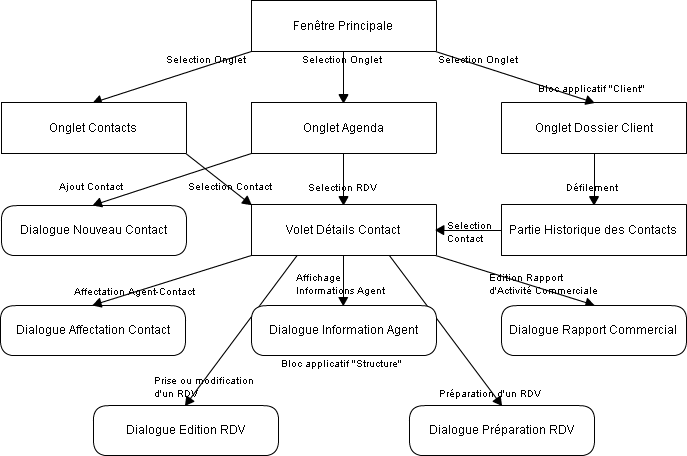
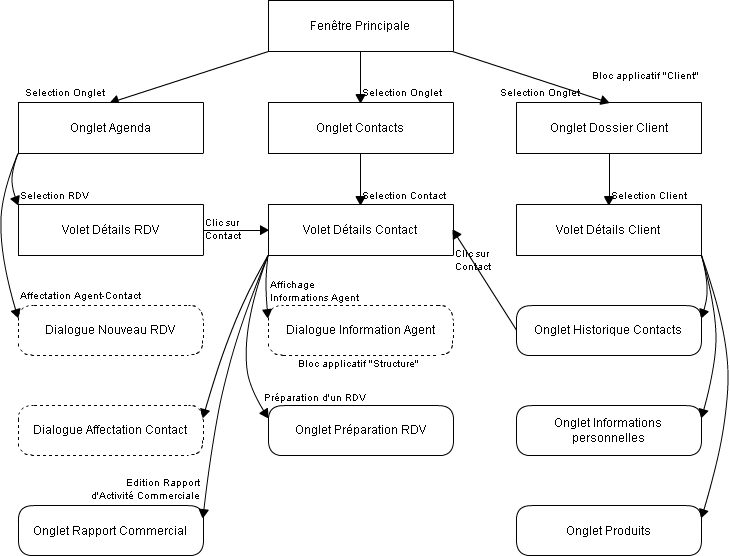
Work

diff --git a/livrables/compte-rendu/conception-detaillee.tex b/livrables/compte-rendu/conception-detaillee.tex
@@ -26,8 +26,7 @@ principaux :
 \item \textbf{L'onglet Clients} : Cet onglet permet d'accéder aux dossiers des clients de la banque.
 \end{itemize}
 
-On observera également le volet \textbf{Détails du Contact}, partagé par toutes fenêtres de l'IHM.
-En effet, l'objet métier Contact est central à l'application. Il permet d'effectuer toutes les
+On observera également le volet \textbf{Détails du Contact}. Il permet d'effectuer toutes les
 opérations nécessaires sur un Contact (une liste de ces services métiers se trouve plus loin
 dans ce compte rendu).
 
